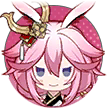
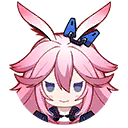
更换图标，更新RM

diff --git a/Assets/Scripts/TransparentWindow.cs b/Assets/Scripts/TransparentWindow.cs
@@ -230,21 +230,16 @@ public class TransparentWindow : MonoBehaviour
         _runOnStart.Image = DataModel.Instance.Data.isRunOnStartup ? _enableImage : null;
     }
 
+    //! 不支持压缩
     void LoadIconFile(string basePath)
     {
         string enableImagePath = basePath + "/Checkmark.png";
         string iconPath = basePath + "/Icon.png";
-        if (!File.Exists(enableImagePath))
-        {
-            File.WriteAllBytes(enableImagePath, _enableTexture.EncodeToPNG());
-        }
+
+        File.WriteAllBytes(enableImagePath, _enableTexture.EncodeToPNG());
         _enableImage = Image.FromFile(enableImagePath);
 
-        if (!File.Exists(iconPath))
-        {
-            File.WriteAllBytes(iconPath, _systemTrayTexture.EncodeToPNG());
-        }
-        // 不支持压缩
+        File.WriteAllBytes(iconPath, _systemTrayTexture.EncodeToPNG());
         _systemTrayIcon = Icon.FromHandle((new Bitmap(iconPath)).GetHicon());
     }
 
